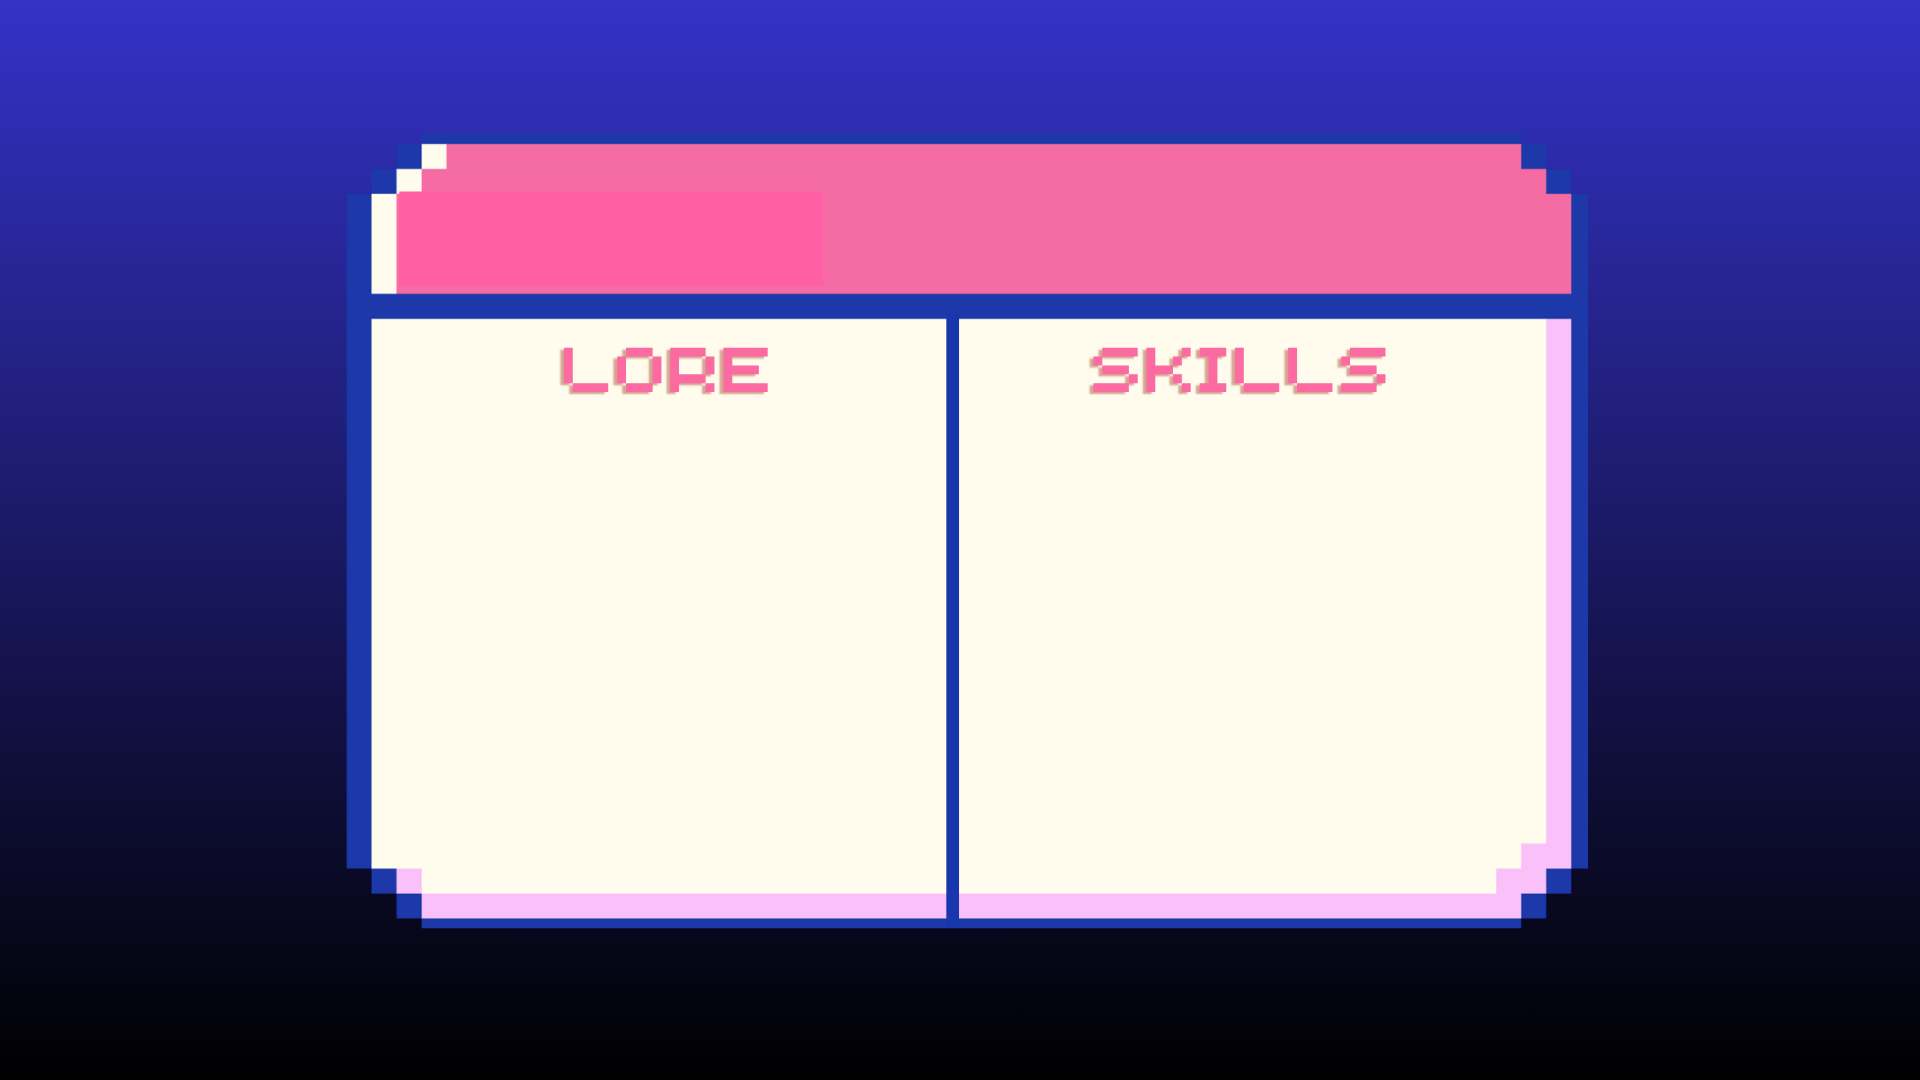
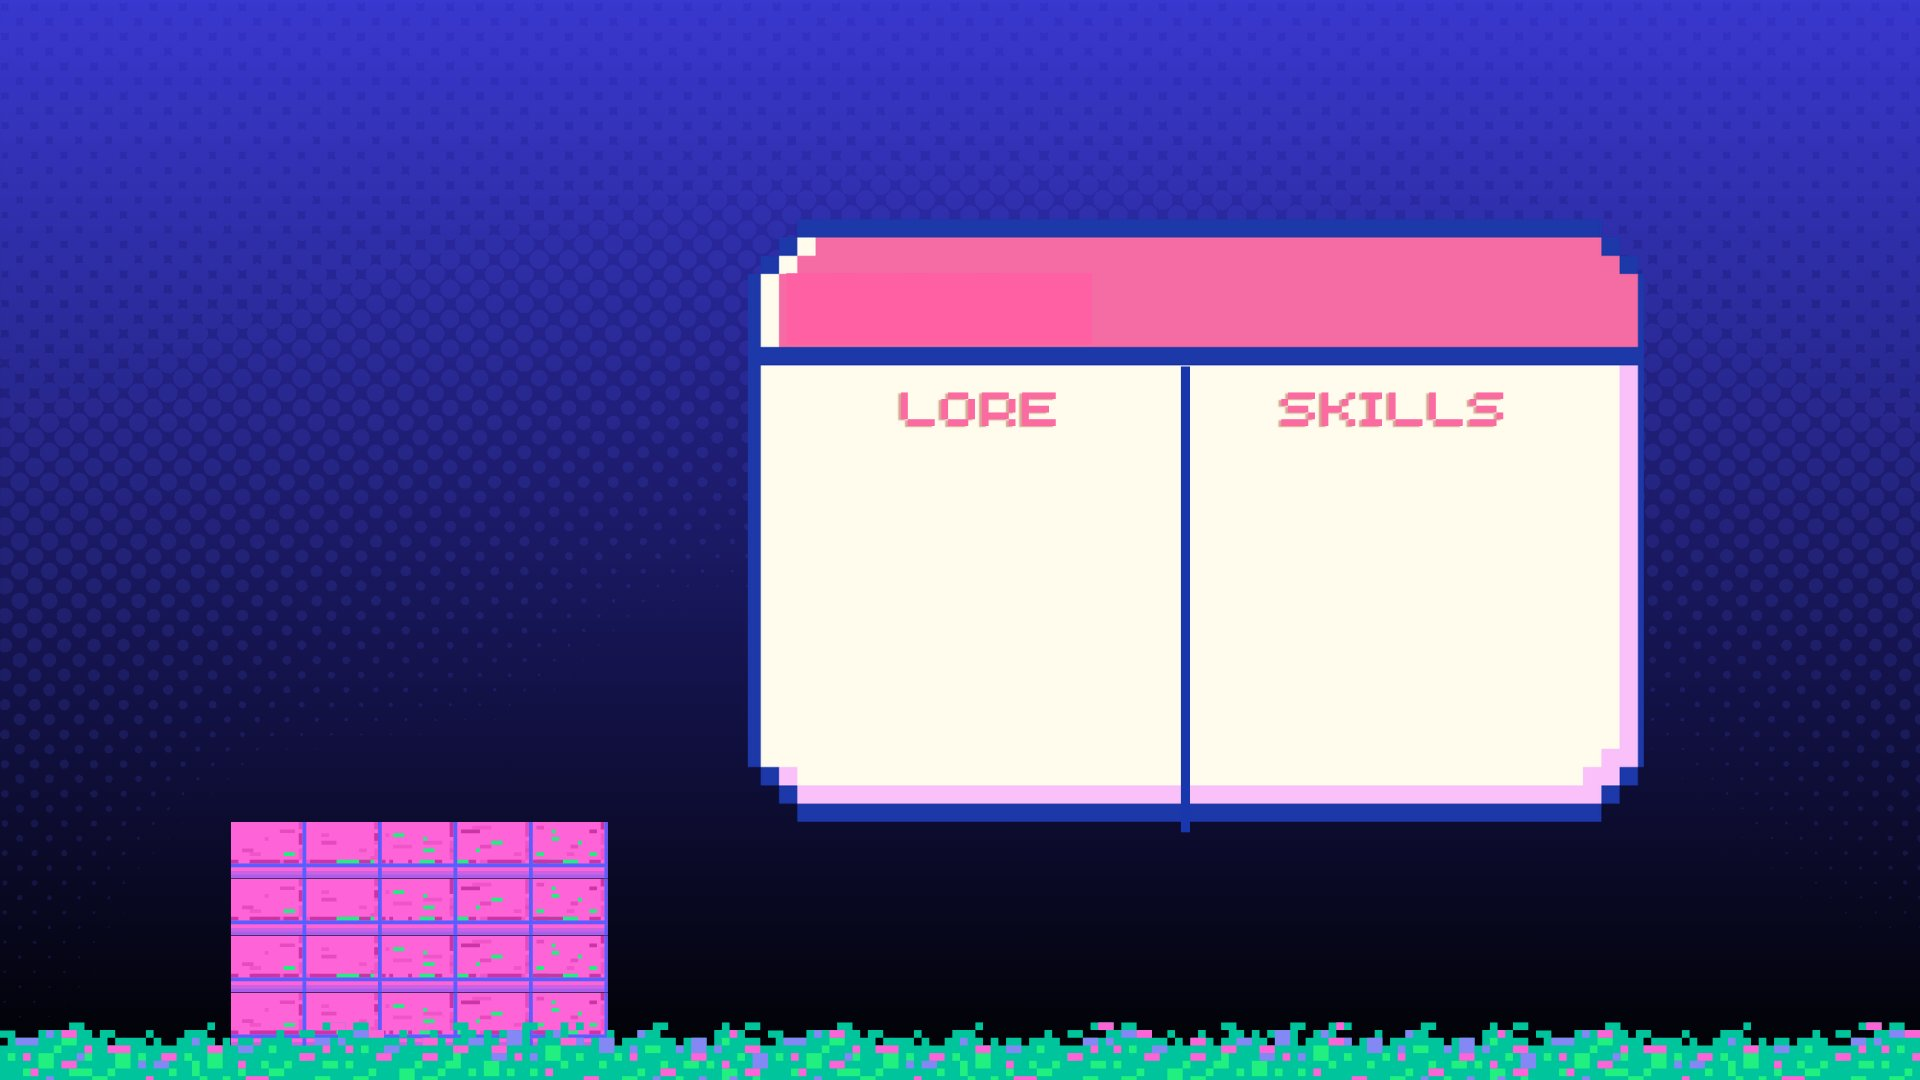
changed char select, added jabi skills

diff --git a/src/ui/CharacterSelectScreen.java b/src/ui/CharacterSelectScreen.java
@@ -6,8 +6,10 @@ import main.GamePanel;
 import main.GameState;
 
 import javax.imageio.ImageIO;
+import javax.swing.ImageIcon;
 import java.awt.*;
 import java.awt.image.BufferedImage;
+import java.net.URL;
 import java.util.HashMap;
 import java.util.Map;
 
@@ -22,6 +24,7 @@ public class CharacterSelectScreen {
 
     // Character sprites
     private Map<String, BufferedImage> sprites = new HashMap<>();
+    private Map<String, ImageIcon> animatedSprites = new HashMap<>();
 
     //Font
     private Font pixelFont;
@@ -77,8 +80,17 @@ public class CharacterSelectScreen {
                 "TacoBell","Wendys","Poco","Julies"
         };
         for (String n : names) {
-            BufferedImage img = tryLoad("/resources/sprites/" + n + ".png");
-            if (img != null) sprites.put(n, img);
+            // Try animated GIF sprite first
+            URL gifUrl = getClass().getResource("/resources/sprites/" + n + "_sprite.gif");
+            if (gifUrl != null) {
+                ImageIcon icon = new ImageIcon(gifUrl);
+                icon.setImageObserver(gamePanel);
+                animatedSprites.put(n, icon);
+            } else {
+                // Fall back to static PNG
+                BufferedImage img = tryLoad("/resources/sprites/" + n + ".png");
+                if (img != null) sprites.put(n, img);
+            }
         }
     }
 
@@ -97,15 +109,17 @@ public class CharacterSelectScreen {
 
         int currentIndex = selectingP1 ? p1Index : p2Index;
         Character ch = characterManager.createCharacter(currentIndex);
+        String key = ch.getName().replaceAll("[^a-zA-Z]", "");
+        ImageIcon animIcon = animatedSprites.get(key);
 
-        // ──  Background ─────────────────────────────────────────────
+        // ──  Background (PNG shell — always) ────────────────────────
         if (background != null) {
             g2d.drawImage(background, 0, 0, width, height, null);
         } else {
             drawFallbackBackground(g2d, width, height);
         }
 
-        // ──  Player label ───────────────────────────────────────────
+        // ──  Player label ────────────────────────────────────────────
         boolean isPvp = gamePanel.getGameMode().equals("PVP");
         String playerLabel = selectingP1 ? "PLAYER 1" : (isPvp ? "PLAYER 2" : "PLAYER 1");
         g2d.setFont(pixelFont.deriveFont((float) sf(width, 20)));
@@ -115,47 +129,63 @@ public class CharacterSelectScreen {
                 (width - fm.stringWidth(playerLabel)) / 2,
                 (int)(height * 0.09));
 
-        // ──  Character sprite ───────────────────────────────────────
-        int spriteSize = (int)(height * 0.135);
-        int spriteX    = (int)(width  * 0.19);
-        int spriteY    = (int)(height * 0.115);
-        String key = ch.getName().replaceAll("[^a-zA-Z]", "");
-        BufferedImage sprite = sprites.get(key);
-        if (sprite != null) {
-            g2d.drawImage(sprite, spriteX, spriteY, spriteSize, spriteSize, null);
+        // ──  Character sprite (GIF or static PNG) ────────────────────
+        // Pedestal center X = 0.1622, top = 0.7611
+        // Sprite should sit on pedestal — bottom of sprite = pedestal top
+        int spriteH  = (int)(height * 0.52);
+        int spriteW  = spriteH;  // square aspect
+        int pedestalCenterX = (int)(width * 0.23);
+        int pedestalTopY    = (int)(height * 0.761);
+        int spriteX  = pedestalCenterX - spriteW / 2;
+        int spriteY  = pedestalTopY - spriteH;
+        if (animIcon != null) {
+            g2d.drawImage(animIcon.getImage(), spriteX, spriteY, spriteW, spriteH, gamePanel);
         } else {
-            // Placeholder circle
-            g2d.setColor(new Color(255, 200, 100, 200));
-            g2d.fillOval(spriteX, spriteY, spriteSize, spriteSize);
-            g2d.setColor(Color.WHITE);
-            g2d.setFont(new Font("Monospaced", Font.BOLD, sf(width, 10)));
-            g2d.drawString("?", spriteX + spriteSize / 2 - 4, spriteY + spriteSize / 2 + 4);
+            BufferedImage sprite = sprites.get(key);
+            if (sprite != null) {
+                g2d.drawImage(sprite, spriteX, spriteY, spriteW, spriteH, null);
+            } else {
+                g2d.setColor(new Color(255, 200, 100, 200));
+                g2d.fillOval(spriteX, spriteY, spriteW, spriteH);
+                g2d.setColor(Color.WHITE);
+                g2d.setFont(new Font("Monospaced", Font.BOLD, sf(width, 10)));
+                g2d.drawString("?", spriteX + spriteW / 2 - 4, spriteY + spriteH / 2 + 4);
+            }
         }
 
-        // ──  Character name ─────────────────────────────────────────
-        g2d.setFont(pixelFont.deriveFont((float) sf(width, 20)));
+        // ──  Character name — centered in pink header, white ─────────
+        // Header spans x: 0.3964–0.8531, y mid: 0.2796
+        g2d.setFont(pixelFont.deriveFont((float) sf(width, 18)));
         g2d.setColor(Color.WHITE);
         fm = g2d.getFontMetrics();
-        String charName = ch.getName().toUpperCase();
-        int nameAreaL   = (int)(width * 0.25);
-        int nameAreaW   = (int)(width * 0.50);
+        String charName  = ch.getName().toUpperCase();
+        int panelLeft    = (int)(width * 0.3964);
+        int panelRight   = (int)(width * 0.8531);
+        int panelW       = panelRight - panelLeft;
         g2d.drawString(charName,
-                nameAreaL + (nameAreaW - fm.stringWidth(charName)) / 2,
-                (int)(height * 0.215));
+                panelLeft + (panelW - fm.stringWidth(charName)) / 2,
+                (int)(height * 0.295));
 
-        // ──  Lore text ──────────────────────────────────────────────
-        g2d.setFont(new Font("Monospaced", Font.BOLD, sf(width, 9)));
+        // ──  Lore text — inside left cream cell ──────────────────────
+        // Lore cell: x 0.3964–0.6151, y 0.3389–0.7444
+        // Add inner padding
+        int lorePad  = (int)(width * 0.012);
+        int loreX    = panelLeft + lorePad;
+        int loreTopY = (int)(height * 0.4);
+        int loreW    = (int)(width * 0.6151) - panelLeft - lorePad * 2;
+        int loreH    = (int)(height * 0.7) - loreTopY;
+        g2d.setFont(new Font("Monospaced", Font.BOLD, sf(width, 6)));
         g2d.setColor(new Color(30, 20, 60));
-        drawWrappedText(g2d, ch.getBackstory(),
-                (int)(width  * 0.200), (int)(height * 0.40),
-                (int)(width  * 0.290), (int)(height * 0.46));
+        drawWrappedText(g2d, ch.getBackstory(), loreX, loreTopY, loreW, loreH);
 
-        // ──  Skills text ────────────────────────────────────────────
-        int sx  = (int)(width  * 0.515);
-        int sy  = (int)(height * 0.40);
-        int sw  = (int)(width  * 0.295);
-        int sh  = (int)(height * 0.46);
-        int gap = (int)(sh * 0.25);
+        // ──  Skills text — inside right cream cell ───────────────────
+        // Skills cell: x 0.6151–0.8531, y 0.3389–0.7444
+        int skillPad = (int)(width * 0.012);
+        int sx       = (int)(width * 0.6151) + skillPad;
+        int sy       = loreTopY;
+        int sw       = panelRight - (int)(width * 0.6151) - skillPad * 2;
+        int sh       = loreH;
+        int gap      = (int)(sh * 0.35);
 
         drawSkillBlock(g2d,
                 "BASIC ATTACK: " + ch.getBasicAttackName(),
@@ -259,12 +289,12 @@ public class CharacterSelectScreen {
     // ── Skill block ───────────────────────────────────────────────────
     private void drawSkillBlock(Graphics2D g2d, String title, String details,
                                 int x, int y, int maxW, int screenW) {
+        g2d.setFont(new Font("Monospaced", Font.BOLD, sf(screenW, 6)));
         int lh = g2d.getFontMetrics().getHeight();
-        g2d.setFont(new Font("Monospaced", Font.BOLD, sf(screenW, 9)));
         g2d.setColor(new Color(50, 0, 70));
         drawWrappedText(g2d, title, x, y, maxW, lh * 2);
 
-        g2d.setFont(new Font("Monospaced", Font.PLAIN, sf(screenW, 9)));
+        g2d.setFont(new Font("Monospaced", Font.PLAIN, sf(screenW, 6)));
         g2d.setColor(new Color(60, 40, 80));
         String[] parts = details.split("  ");
         for (int i = 0; i < parts.length; i++)

diff --git a/src/ui/BattleScreen.java b/src/ui/BattleScreen.java
@@ -16,26 +16,7 @@ import java.util.HashMap;
 import java.util.List;
 import java.util.Map;
 
-/**
- * BattleScreen — Pokemon-style layout with animated GIF support
- *
- * GIF animations use JLabel + ImageIcon (Swing animates GIFs natively).
- * Two JLabels are overlaid on the GamePanel:
- *   - attackerLabel : plays attacker's attack GIF (left or right side)
- *   - defenderLabel : plays defender's hit GIF
- *
- * File naming convention (place in /resources/gifs/):
- *   <CharClassName>_basic.gif
- *   <CharClassName>_skill.gif
- *   <CharClassName>_ultimate.gif
- *   <CharClassName>_hit.gif
- *
- * Layout:
- *   TOP    : HP bars with portrait icons
- *   MIDDLE : Battle background + sprites (player left, enemy right+flipped)
- *   BOTTOM : Log box (left) | 4 attack buttons 2x2 (right)
- *            Red=Basic  Green=Skill  Yellow=Ultimate  Blue=Rest
- */
+
 public class BattleScreen {
 
     // ── Round starter indicator ───────────────────────────────────────────
